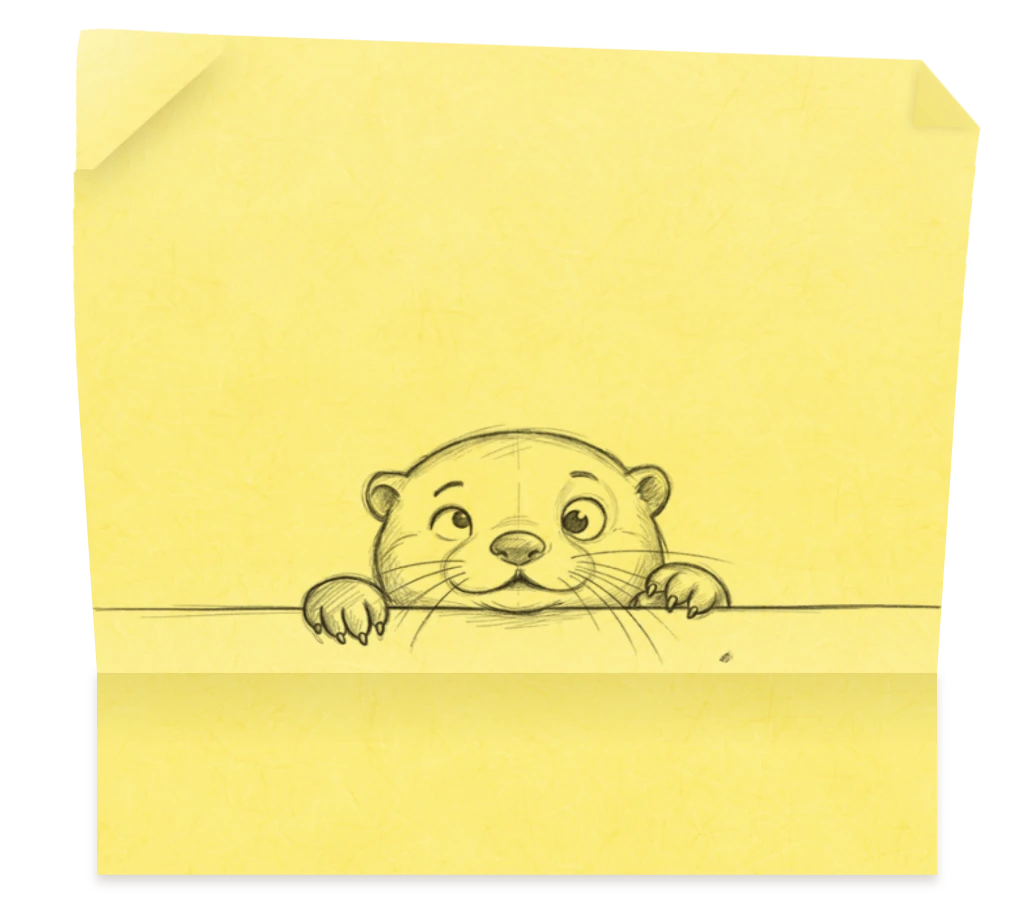
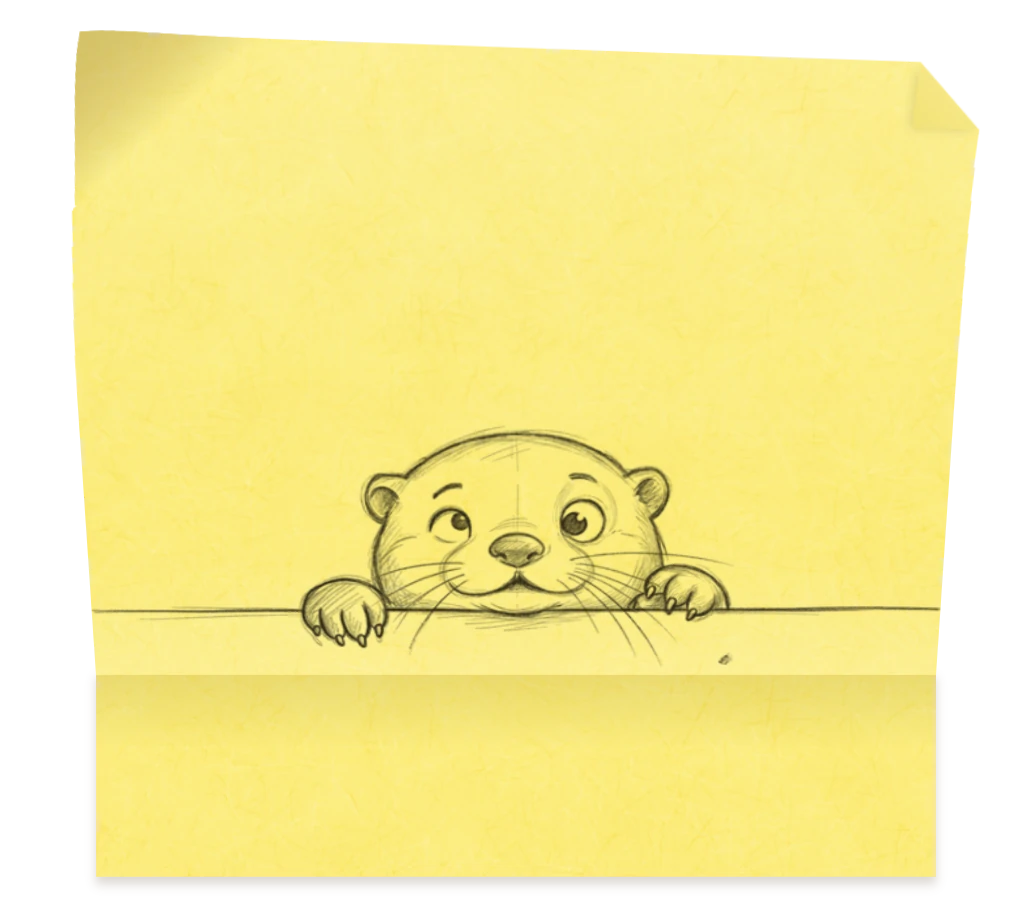
Post-it: a subtler top left curl, the note's own colour, no shadow line
The corner now lifts gently toward the viewer and its tip keeps pointing
up and left. The turn is 55 degrees at the tip and grows from nothing at
the hinge. Past about 70 degrees, a point raised toward us in this view
moves down and right, and the corner turns back on itself.

- The corner had come out a deeper yellow than the rest of the note: the
  bands' white light ramp was missing from its pieces. It now has the
  same ramp (lightAt), so its colour matches.
- The cast shadow along the hinge is gone. It drew the jarring line.
- The lift reads through a soft warm shade instead: none at the hinge,
  most at the tip, spread over the whole lifted part.

The shapes were tried first as mockups, rendered from a 3D model onto the
real post-it. The zoom pictures are re-baked.

diff --git a/src/app/landing/PostIt.tsx b/src/app/landing/PostIt.tsx
@@ -208,37 +208,60 @@ export function PostIt() {
 const BANDS = [0.04, 0.04, 0.04, 0.04, 0.04, 0.04, 0.04, 0.12];
 
 /**
- * The top left corner curling toward us (2026-10-07: "make only the top
- * left corner of the postit curl a bit towards the camera"; then "i dont
- * want that crease type design ... i want it to curl towards the camera.
- * point of corner still visible"): a square `size` of the note on a side at
- * the top band's corner - reaching down into the bands below it, whose
- * faces are cut to match - cut along `steps` diagonal hinges evenly spaced to
- * the tip, each piece turned about every hinge from the outermost in to its
- * own. The turns grow toward the tip, adding up to `turn` degrees there - a
- * roll, too fine at every hinge to show as a fold, and short enough of a
- * right angle that the corner keeps its point. One light across all of it
- * (each piece shows its part of the same gradient), brighter toward the tip
- * as it lifts into the light, like the bands below. (Four hinges, up to 80
- * degrees and a shade in the bend read as creases and lost the point.)
+ * The top left corner curling toward us - gently: "significantly more
+ * subtle where it doesn't curl back on the corner, should still be pointing
+ * up and to the left" (2026-10-07, after "i dont want that crease type
+ * design" and two mockups that rolled it over). A square `size` of the note
+ * on a side at the top band's corner - reaching into the bands below, whose
+ * faces are cut to match - cut along `steps` diagonal hinges evenly spaced
+ * to the tip. The paper turns `turn` degrees by the tip, as (fraction of the
+ * way)^`onset`, so it lifts from nothing at the hinge and most at the tip -
+ * a curl, too fine at any hinge to show as a fold. Under 70 degrees the tip
+ * still points up and out: in this view a point raised toward us moves down
+ * and right on screen, and past that it would turn back on itself.
+ *
+ * Read by its shade, as seen face on a gentle lift hardly changes the
+ * outline: the lifted paper turns from the light (the film's, from the top
+ * left), darker toward the tip by up to `shade` - the fold's own warm tone -
+ * in one gradient across all of it (each piece shows its part), from none
+ * at the hinge, so there is no line anywhere. Under it, the same light the
+ * bands below have (lightAt), so the corner is the note's own colour: without
+ * it the corner came out a deeper yellow than the paper around it. No cast
+ * shadow: along the hinge it drew a dark line ("a jarring shadow toward the
+ * rest of the postit"). Drawn first as mockups from a 3D model.
  */
-const CURL = { size: 0.16, steps: 14, turn: 60, light: 0.3 };
+const CURL = { size: 0.2, steps: 16, turn: 55, onset: 1.6, shade: 0.3 };
 
-function Curl({ backgroundPosition, light }: { backgroundPosition: string; light: number }) {
+/** The white over the bands' paper at `y` note sides down from the top of
+ *  the lifted part: more the further the paper leans into the light - what
+ *  each band's ramp is a piece of. */
+const lightAt = (y: number) => 0.02 + 0.13 * (1 - y / (1 - STUCK - FLAT / 100));
+
+function Curl({ backgroundPosition }: { backgroundPosition: string }) {
   const s = CURL.size;
   const n = CURL.steps;
   const hinge = (i: number) => 1 - i / n;
-  // The turn at each hinge, growing toward the tip: (i + 1) shares of it.
-  const share = (n * (n + 1)) / 2;
-  const turn = (i: number) => (CURL.turn * (i + 1)) / share;
+  // The paper's turn at a fraction of the way to the tip, and so the turn
+  // at each hinge: what is added between it and the next.
+  const angle = (f: number) => CURL.turn * f ** CURL.onset;
+  const turn = (j: number) => angle((j + 1) / n) - angle(j / n);
   const about = (h: number, deg: number) => {
     const m = `calc(var(--note) * ${((s * h) / 2).toFixed(4)})`;
     const back = `calc(var(--note) * ${((-s * h) / 2).toFixed(4)})`;
     return `translate(${m}, ${m}) rotate3d(1, -1, 0, ${deg.toFixed(2)}deg) translate(${back}, ${back})`;
   };
-  // The gradient on the corner's square, the same for every piece: "to top
-  // left" runs across the hinges, 50% on the outermost, 100% at the tip.
-  const lit = `linear-gradient(to top left, rgba(255,255,255,${light.toFixed(3)}) 50%, rgba(255,255,255,${(light + CURL.light).toFixed(3)}) 100%)`;
+  // The shade on the corner's square, the same for every piece: "to top
+  // left" runs across the hinges, 50% on the outermost, 100% at the tip;
+  // darker the further from the hinge, smoothly from none there - over the
+  // whole lifted part, not only where it turns most: by the turn alone it
+  // gathered at the very tip and read as nothing.
+  const stops = Array.from({ length: 9 }, (_, k) => {
+    const f = k / 8;
+    const a = CURL.shade * f * (2 - f);
+    return `rgba(120, 88, 10, ${a.toFixed(3)}) ${(50 + 50 * f).toFixed(1)}%`;
+  });
+  const shade = `linear-gradient(to top left, rgba(120, 88, 10, 0) 0%, ${stops.join(", ")})`;
+  const lit = `linear-gradient(to top, rgba(255,255,255,${lightAt(s).toFixed(3)}), rgba(255,255,255,${lightAt(0).toFixed(3)}))`;
   return Array.from({ length: n }, (_, i) => {
     const out = hinge(i);
     const inner = i + 1 < n ? hinge(i + 1) : 0;
@@ -251,7 +274,7 @@ function Curl({ backgroundPosition, light }: { backgroundPosition: string; light
     const transform = Array.from({ length: i + 1 }, (_, j) => about(hinge(j), turn(j))).join(" ");
     return (
       <span key={i} className={styles.postitCurl} style={{ backgroundPosition, clipPath, transform }}>
-        <span className={styles.postitLight} style={{ background: lit }} />
+        <span className={styles.postitLight} style={{ background: `${shade}, ${lit}` }} />
       </span>
     );
   });
@@ -278,10 +301,8 @@ function Band({ k }: { k: number }) {
     <span className={`${styles.postitSeg} ${styles.postitBand}`} style={{ ["--band" as string]: BANDS[k], ["--curl" as string]: CURL.size }}>
       <span className={`${styles.postitFace} ${last ? styles.postitTurned : ""}`} style={{ backgroundPosition, clipPath: faceClip(CURL.size - top, last) }}>
         <span className={styles.postitLight} style={{ background: `linear-gradient(to top, rgba(255,255,255,${light(k)}), rgba(255,255,255,${light(k + 1)}))` }} />
-        {/* Where the curled corner reaches it, or nearly: its shadow. */}
-        {CURL.size - top > -0.04 && <span className={styles.postitCurlShadow} style={{ top: `calc(var(--note) * ${-top})` }} />}
       </span>
-      {last ? <Curl backgroundPosition={backgroundPosition} light={Number(light(k + 1))} /> : <Band k={k + 1} />}
+      {last ? <Curl backgroundPosition={backgroundPosition} /> : <Band k={k + 1} />}
     </span>
   );
 }

diff --git a/src/app/landing/landing.module.css b/src/app/landing/landing.module.css
@@ -1337,29 +1337,6 @@
   transform-origin: 0 0;
 }
 
-/* The shadow the curled corner casts on the note under it: its own shape,
-   a little lower, softened - shown only where the face is, past the hinge
-   (the face is cut where the corner was). Placed from the note's top; the
-   blur on the outer span, the shape on the inner, as a clip-path applies
-   after a filter on one element and would cut the blur back off. */
-.postitCurlShadow {
-  position: absolute;
-  left: 0;
-  width: calc(var(--note) * var(--curl));
-  height: calc(var(--note) * var(--curl));
-  transform: translate(calc(var(--note) * 0.003), calc(var(--note) * 0.024));
-  filter: blur(calc(var(--note) * 0.022));
-  pointer-events: none;
-}
-
-.postitCurlShadow::before {
-  content: "";
-  position: absolute;
-  inset: 0;
-  background: rgba(96, 70, 8, 0.3);
-  clip-path: polygon(0 0, 100% 0, 0 100%);
-}
-
 /* The top right corner turned over: the note's back, barely duller, and the
    faintest shadow on the front ("the turned corner gradients less obvious"). */
 .postitTurned::after {
